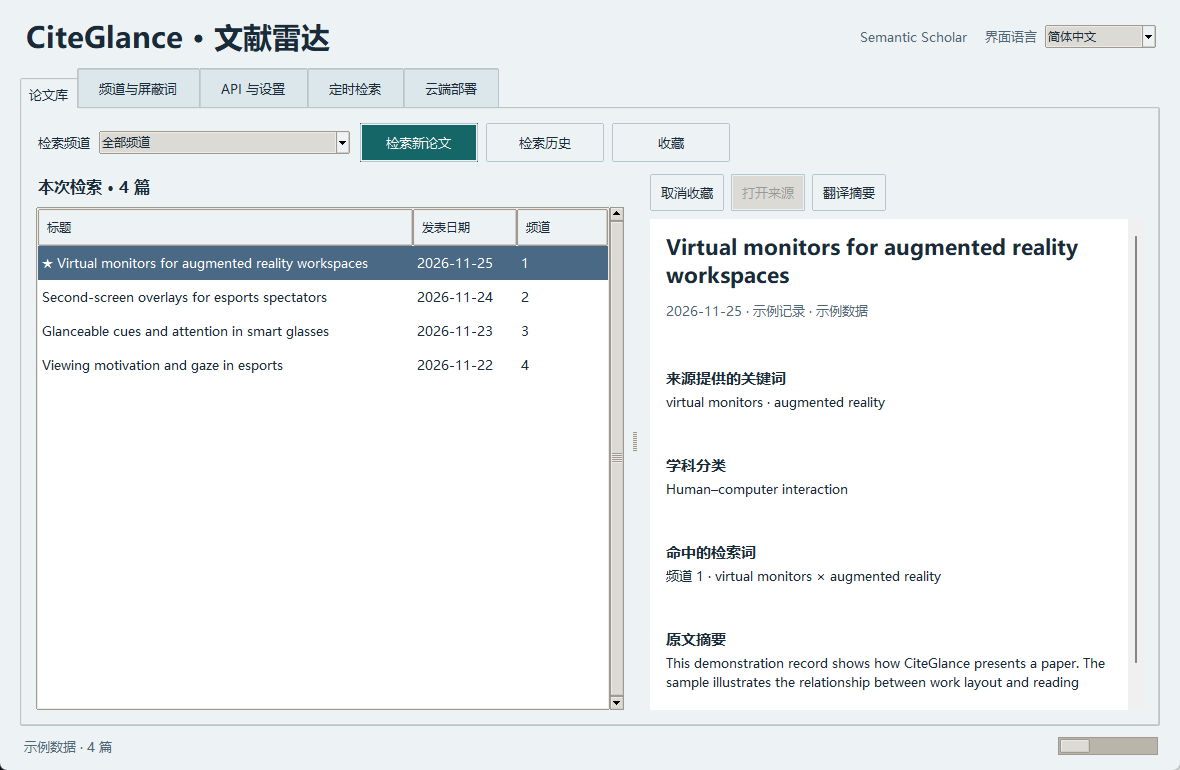
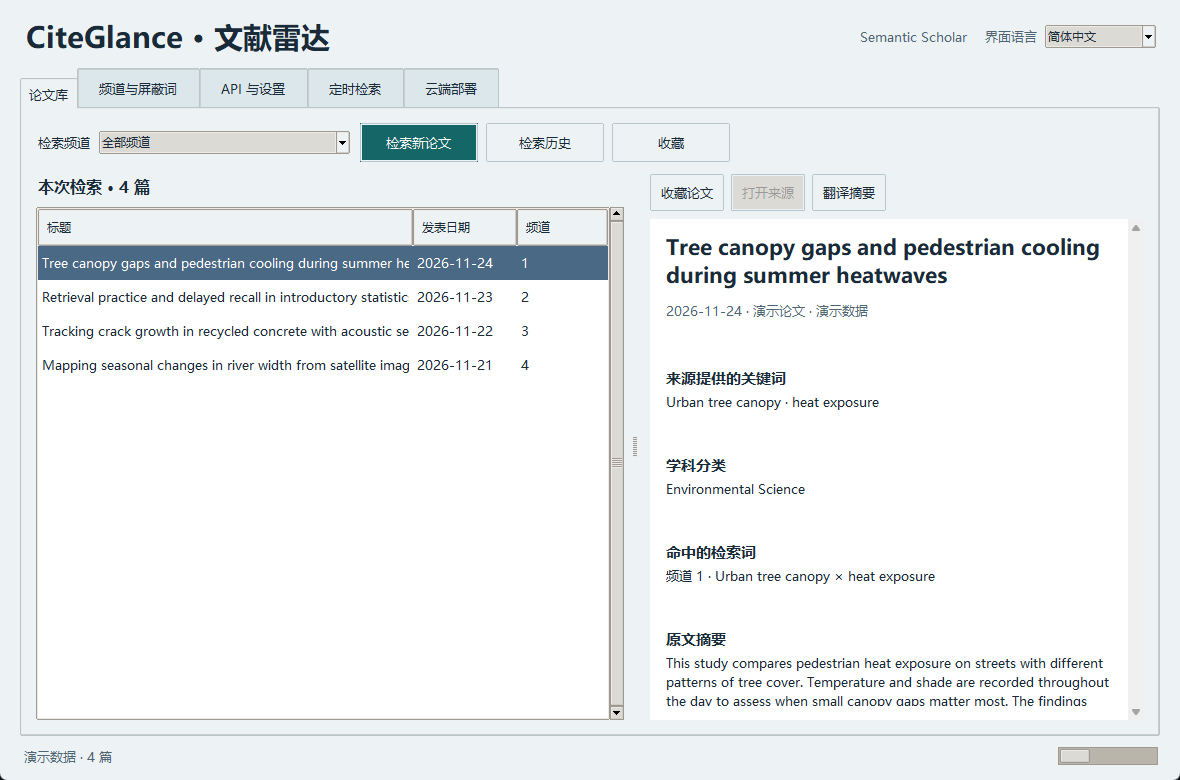
Start CiteGlance with no preset channels and keep state local

diff --git a/desktop.py b/desktop.py
@@ -21,7 +21,7 @@ from desktop_store import (
     DATA_DIRECTORY, INTERVAL_SECONDS, Library, Secrets, clean_terms, read_json, saved_settings,
     translation_key, validate_channels, write_json,
 )
-from i18n import INTERFACE_LANGUAGES, PRESET_CHANNELS, translate, translate_error
+from i18n import INTERFACE_LANGUAGES, translate, translate_error
 from providers import (
     CUSTOM_SEARCH, LANGUAGES, SEARCH_PROVIDERS, TRANSLATION_ENDPOINTS, TRANSLATORS,
     endpoint_url, make_search, translate_abstract, validate_custom,
@@ -316,6 +316,8 @@ class PaperWatch(tk.Tk):
         side = ttk.Frame(tab, padding=(0, 0, 14, 0))
         side.grid(row=0, column=0, sticky="nsew")
         self.label(side, "频道", style="Heading.TLabel").pack(anchor="w", pady=(0, 8))
+        self.channel_empty_hint = self.label(side, "还没有频道。填写频道名称和两组检索词，即可保存第一个频道。",
+                                             style="Hint.TLabel", wraplength=205, justify="left")
         self.channel_list = tk.Listbox(side, width=27, height=12, exportselection=False, font=FONT,
                                        activestyle="none", bg=WHITE, fg=INK, relief="flat",
                                        highlightthickness=0, selectbackground=BLUE)
@@ -689,9 +691,13 @@ class PaperWatch(tk.Tk):
         self.fill_channel(active)
 
     def refresh_channel_labels(self, selected=None):
-        self.channel_values = [ALL, *(self.channel_key(row) for row in self.lookup)]
-        labels = [self.channel_label(row) for row in self.lookup]
+        labels = [self.channel_key(row) for row in self.lookup]
+        self.channel_values = [ALL, *labels]
         self.channel_combo.configure(values=[self.t(ALL), *labels])
+        if labels:
+            self.channel_empty_hint.pack_forget()
+        elif not self.channel_empty_hint.winfo_manager():
+            self.channel_empty_hint.pack(before=self.channel_list, anchor="w", pady=(0, 8))
         current = self.picked_channel.get()
         if current not in self.channel_values:
             current = ALL
@@ -707,13 +713,6 @@ class PaperWatch(tk.Tk):
     @staticmethod
     def channel_key(row):
         return f'{row["id"]} · {row["name"]}'
-
-    def channel_label(self, row):
-        index = row["id"] - 1
-        name = row["name"]
-        if 0 <= index < len(PRESET_CHANNELS) and name == PRESET_CHANNELS[index]:
-            name = self.t(name)
-        return f'{row["id"]} · {name}'
 
     def pick_channel(self, _):
         index = self.channel_combo.current()
@@ -753,6 +752,7 @@ class PaperWatch(tk.Tk):
         self.config_data = replacement
         if refresh:
             self.refresh_channels(selected)
+            self.render_detail()
         self.set_status(message, **fields)
         self.wake_schedule()
 
@@ -906,7 +906,9 @@ class PaperWatch(tk.Tk):
         self.detail.configure(state="normal")
         self.detail.delete("1.0", "end")
         if not paper:
-            self.detail.insert("end", self.t("选择频道并检索，或从历史中打开一篇论文。"), "muted")
+            hint = ("选择频道并检索，或从历史中打开一篇论文。" if self.lookup
+                    else "请先在「频道与屏蔽词」添加一个频道。")
+            self.detail.insert("end", self.t(hint), "muted")
         else:
             self.detail.insert("end", paper["title"] + "\n", "title")
             authors = [author.get("name") for author in paper.get("authors") or [] if author.get("name")]
@@ -986,8 +988,6 @@ class PaperWatch(tk.Tk):
         key_endpoint = settings["custom"].get("endpoint", "") if provider == "自定义 JSON" else ""
         fallback = os.getenv("SEMANTIC_SCHOLAR_API_KEY", "") if provider == "Semantic Scholar" else ""
         try:
-            key = self.secrets.get(self.key_slot("search", provider, key_endpoint), fallback)
-            search, query_for = make_search(provider, key, settings["budget"], settings["custom"])
             channels, exclude = bot.load_channels(self.config_data)
             selected = ALL if automatic else self.picked_channel.get()
             active = channels if selected == ALL else [
@@ -995,6 +995,8 @@ class PaperWatch(tk.Tk):
             ]
             if not active:
                 raise ValueError("请先在「频道与屏蔽词」添加一个频道。")
+            key = self.secrets.get(self.key_slot("search", provider, key_endpoint), fallback)
+            search, query_for = make_search(provider, key, settings["budget"], settings["custom"])
             if not automatic:
                 self.settings["channel"] = selected
                 write_json(self.directory / "settings.json", self.settings)

diff --git a/bot.py b/bot.py
@@ -277,12 +277,8 @@ def ranked_papers(papers, channels, exclude, reported):
 
     def display_priority(row):
         paper, matches, _, _ = row
-        pavanatto = any(
-            "pavanatto" in match_text(author.get("name") or "")
-            for author in (paper.get("authors") or [])
-        )
         primary = min(match[0] for match in matches)
-        return -primary, primary == 1 and pavanatto, paper.get("publicationDate") or ""
+        return -primary, paper.get("publicationDate") or ""
 
     return sorted(selected, key=display_priority, reverse=True)
 
@@ -343,6 +339,7 @@ def main():
     argparse_modes = parser.add_mutually_exclusive_group()
     argparse_modes.add_argument("--chat-id", action="store_true", help="安全查询 Telegram 私聊 ID")
     argparse_modes.add_argument("--dry-run", action="store_true", help="只在终端预览")
+    parser.add_argument("--previous-day", action="store_true", help="仅检索日本时间的前一天，不读写检索记录")
     args = parser.parse_args()
 
     token = os.getenv("TELEGRAM_BOT_TOKEN", "").strip()
@@ -359,6 +356,9 @@ def main():
             print(chat_id)
         return 0
 
+    channels, excluded = load_channels()
+    if not channels:
+        raise ServiceError("请先在客户端添加一个频道，或在 channels.json 中配置频道。")
     api_key = os.getenv("SEMANTIC_SCHOLAR_API_KEY", "").strip()
     if not api_key:
         raise ServiceError("请配置 SEMANTIC_SCHOLAR_API_KEY")
@@ -368,10 +368,16 @@ def main():
         raise ServiceError("请配置 TELEGRAM_BOT_TOKEN 和数字格式的 Telegram 私聊 ID")
 
     today = datetime.now(JAPAN_TIME).date()
-    channels, excluded = load_channels()
-    state = load_state()
+    lookback = 14
+    if args.previous_day:
+        today -= timedelta(days=1)
+        state = {"reported": [], "last_complete": {}}
+        lookback = 1
+    else:
+        state = load_state()
+    persist_state = not dry_run and not args.previous_day
     search = PaperSearch(api_key)
-    papers, failures, complete = scan(channels, state, today, search)
+    papers, failures, complete = scan(channels, state, today, search, lookback=lookback)
     reported = set(state["reported"])
     rows = ranked_papers(papers, channels, excluded, reported)
     for index, (message, keys) in enumerate(report_chunks(today, rows, failures, search.used)):
@@ -384,11 +390,11 @@ def main():
             token, "sendMessage", chat_id=int(chat_id), text=message,
             link_preview_options={"is_disabled": True},
         )
-        if keys:
+        if keys and persist_state:
             reported.update(keys)
             state["reported"] = sorted(reported)
             save_state(state)
-    if not dry_run and complete:
+    if complete and persist_state:
         state["last_complete"].update(dict.fromkeys(complete, today.isoformat()))
         save_state(state)
     if failures:

diff --git a/i18n.py b/i18n.py
@@ -4,12 +4,6 @@ import re
 
 
 INTERFACE_LANGUAGES = {"zh": "简体中文", "en": "English", "ja": "日本語"}
-PRESET_CHANNELS = (
-    "AR 虚拟扩展屏与混合显示",
-    "电竞／体育观赛与 AR、第二屏或 HUD",
-    "AR 周边提示与人类视觉注意力",
-    "电竞观众动机、观赛行为与眼动",
-)
 
 TEXT = {
     "CiteGlance · 文献雷达": ("CiteGlance", "CiteGlance · 論文レーダー"),
@@ -31,6 +25,10 @@ TEXT = {
     "翻译摘要": ("Translate abstract", "要旨を翻訳"),
     "频道与屏蔽词": ("Channels & filters", "チャンネルと除外語"),
     "新增频道": ("New channel", "チャンネルを追加"),
+    "还没有频道。填写频道名称和两组检索词，即可保存第一个频道。": (
+        "No channels yet. Enter a name and two groups of search terms to save your first channel.",
+        "チャンネルがありません。名前と2グループの検索語を入力し、最初のチャンネルを保存してください。",
+    ),
     "删除所选频道": ("Delete selected channel", "選択したチャンネルを削除"),
     "每行一个词组。A、B 两组都需至少命中一项。": (
         "Enter one phrase per line. At least one phrase from each group must match.",
@@ -196,10 +194,6 @@ TEXT = {
     "简体中文": ("Simplified Chinese", "簡体字中国語"),
     "日语": ("Japanese", "日本語"),
     "英语": ("English", "英語"),
-    "AR 虚拟扩展屏与混合显示": ("AR virtual monitors and hybrid displays", "AR仮想モニターとハイブリッド表示"),
-    "电竞／体育观赛与 AR、第二屏或 HUD": ("Esports and sports viewing with AR, second screens, or HUDs", "eスポーツ・スポーツ観戦とAR、セカンドスクリーン、HUD"),
-    "AR 周边提示与人类视觉注意力": ("AR peripheral cues and human visual attention", "ARの周辺視野への提示と人の視覚的注意"),
-    "电竞观众动机、观赛行为与眼动": ("Esports viewing motivation, behavior, and eye tracking", "eスポーツの観戦動機・行動と視線計測"),
     "编辑频道 {number}": ("Edit channel {number}", "チャンネル{number}を編集"),
     "频道文件已在其他窗口修改。请重新打开客户端后再编辑。": (
         "The channel file changed in another window. Reopen the client before editing.",

diff --git a/docs/usage.md b/docs/usage.md
@@ -8,9 +8,17 @@
 
 在窗口右上角的「界面语言」选择简体中文、English 或日本語。界面会立即切换并记住选择。摘要翻译的目标语言在「API 与设置」单独设置。
 
+### 创建第一个频道
+
+首次打开时，频道、检索词组和屏蔽词均为空。在「频道与屏蔽词」填写名称与 A、B 两组检索词，然后点击「保存频道」。每组至少命中一项即可。
+
+![首次打开的频道界面，频道列表、检索词组和全局屏蔽词均为空。](images/channels.png)
+
+「领域限定」是可选条件，填写后须再命中其中一项。「仅此频道的屏蔽词」和「全局屏蔽词」分别生效。频道设置写入项目里的 `channels.json`。
+
 ### 客户端定时检索
 
-默认每 24 小时检索一轮。在「定时检索」中可以设置分钟、小时或天为单位的间隔，或暂停定时检索。点击「保存定时设置」后立即应用。客户端使用当前保存的检索来源，自动检索所有频道，结果可在「检索历史」查看。
+创建频道并配置检索来源后，默认每 24 小时检索一轮。在「定时检索」中可以设置分钟、小时或天为单位的间隔，或暂停定时检索。点击「保存定时设置」后立即应用。客户端使用当前保存的检索来源，自动检索所有频道，结果可在「检索历史」查看。
 
 客户端保持打开且电脑处于唤醒状态时，最小化窗口也可继续定时。上次全频道检索的启动时间会记住，重开时已到期会运行一轮。手动搜索全部频道也会重新计算下一次时间。界面会以日本时间显示上次启动以及下次预计时间。每轮沿用「API 与设置」的请求预算，提高频率会增加每天的请求量。
 
@@ -20,8 +28,7 @@
 
 1. 打开「API 与设置」，选择 **Semantic Scholar**，把已经获批的 API Key 填在「检索 API Key」，然后点「保存设置」。勾选「记住本次输入的密钥」会用 Windows DPAPI 加密保存。密钥绑定到对应服务，自定义服务还会绑定到其配置的接口地址。
 2. 回到「论文库」，选一个频道或「全部频道」，点「检索新论文」。点击论文可以查看摘要、来源提供的关键词、学科分类和实际命中的检索词。OpenAlex 提供的是索引关键词。Semantic Scholar 有摘要和学科分类字段，论文记录缺失的信息会在界面明确标注。
-3. 在「频道与屏蔽词」新增、删除或修改频道。A、B 两组各需要命中至少一个词组。「领域限定」可选，填写后还须命中其中一项。「仅此频道的屏蔽词」和「全局屏蔽词」分别生效。
-4. 收藏、检索结果和已完成的译文会保存在此 Windows 用户的 `%LOCALAPPDATA%\PaperWatch`。频道设置写入项目里的 `channels.json`。如果希望 GitHub 定时任务采用桌面调整后的频道，提交这个文件以及本版本的 `bot.py` 到部署仓库。
+3. 收藏、检索结果和已完成的译文会保存在此 Windows 用户的 `%LOCALAPPDATA%\PaperWatch`。GitHub 定时任务使用部署仓库内的 `channels.json`，启用前请先配置至少一个频道。
 
 ### 摘要翻译
 
@@ -51,9 +58,9 @@ Semantic Scholar 是检索服务。点击翻译时，客户端只把当前摘要
 
 ## GitHub 云端运行
 
-启用定时任务后，GitHub Actions 每天 **09:07（日本时间）**运行，检索 Semantic Scholar 的论文元数据，并把简报送到 Telegram 私聊。选择第 7 分钟是为了避开整点的调度高峰。GitHub 定时任务可能延后，简报也受论文收录时间影响。
+启用定时任务后，GitHub Actions 默认每天 **09:07（日本时间）**运行，检索前一个自然日发表的论文，并把简报送到 Telegram 私聊。GitHub 定时任务可能延后，简报也受论文收录时间影响。
 
-四个检索频道、A／B 组和黑名单位于 `channels.json`。每次运行通常发出 4 次检索请求，最多 20 次，包含翻页和重试。一次手动运行有独立预算。向 Semantic Scholar 发出的所有请求至少间隔 1.05 秒。程序只用 Python 标准库，要求 Python 3.10 或更新版本。
+频道、A／B 组和屏蔽词位于 `channels.json`。每次运行最多发出 20 次检索请求，包含各频道的检索、翻页和重试。一次手动运行有独立预算。向 Semantic Scholar 发出的请求至少间隔 1.05 秒。程序只用 Python 标准库，要求 Python 3.10 或更新版本。
 
 ## 1. 创建 Telegram Bot
 
@@ -67,7 +74,7 @@ python bot.py --chat-id
 
 ## 2. 部署到 GitHub
 
-1. 创建一个 **Private** GitHub 仓库。提交解压后的**目录内容**到默认分支，保留隐藏的 `.github/workflows/paper-watch.yml`。确认默认分支允许工作流写入 `state.json`，并且组织策略允许该工作流使用 `contents: write`。
+1. Fork 此项目，或把源码上传到自己的 GitHub 仓库。保留 `.github/workflows/paper-watch.yml`，并在默认分支的 `channels.json` 中配置至少一个频道。希望频道配置仅自己可见时，使用私有仓库。
 2. 在仓库的 **Settings → Secrets and variables → Actions → New repository secret** 添加以下三个值。
 
    | Secret | 值 |
@@ -79,15 +86,15 @@ python bot.py --chat-id
 3. 到 **Actions → CiteGlance 每日检索 → Run workflow**。首次保持「仅检索并预览，不发送 Telegram」勾选，在运行日志看检索结果。这一步需要 Semantic Scholar API Key。
 4. 确认结果后，可以手动取消预览勾选运行一次，验证 Telegram 能收到简报。要启用日程，在 **Settings → Secrets and variables → Actions → Variables** 添加仓库变量 `PAPER_WATCH_CLOUD_ENABLED`，值设为 `true`。启用后每天由 GitHub 运行。重复手动运行会产生额外 API 请求。
 
-云端密钥通过 GitHub Secrets 配置。桌面端可以使用 Windows 加密保存。云端工作流会把去重记录提交到仓库。个人使用时可在私有仓库中部署。
+云端密钥通过 GitHub Secrets 配置。桌面端可以使用 Windows 加密保存。命令行推送的历史保存在运行目录的 `state.json`，桌面端和 Docker 服务使用各自的 SQLite 数据库。GitHub Actions 只有仓库读取权限，每轮独立运行。同一天重复运行可能收到相同的论文，较晚收录的论文也可能超出检索范围。
 
 ## 检索和简报
 
-- 四个频道分别执行「A 组任一词组 AND B 组任一词组」。程序再检查标题、摘要和黑名单。第三频道使用限定词组，如 visual attention 和 cognitive load。
-- 首次回看最近 14 个自然日。以后继续滚动回看，若任务长时间漏跑，则按各频道上次成功日期补查。检索用 Semantic Scholar 的出版日期字段，因此缺少精确日期或延迟收录超过窗口的论文可能遗漏。
+- 每个频道分别执行「A 组任一词组 AND B 组任一词组」。程序再检查标题、摘要和屏蔽词。
+- 常驻服务和命令行常规检索首次回看最近 14 个自然日，以后继续滚动回看，若任务长时间漏跑，则按各频道上次成功日期补查。Semantic Scholar 使用论文的出版日期字段，缺少精确日期或延迟收录超过窗口的论文可能遗漏。
 - 同一篇论文通过 DOI、Semantic Scholar ID、arXiv ID 或规范化标题去重。跨频道结果合成一条。标题相同的预印本和正式版在同一轮出现时优先采用正式版。
-- 简报包含论文标题、出版日期、渠道、匹配词组和 DOI 或 Semantic Scholar 链接。第一频道优先展示符合条件的 Pavanatto 论文，通过 AR 虚拟屏与混合显示词组追踪同类研究。
-- Telegram 确认收到消息后才保存其论文记录。若某个频道的检索未完成，简报会标明，GitHub 运行状态也会显示失败。若 Telegram 已接收消息但运行在保存状态前中断，下一次可能重复推送这一批。
+- 简报包含论文标题、出版日期、渠道、匹配词组和 DOI 或 Semantic Scholar 链接。结果按频道分组，再按发表日期排序。
+- 命令行常规推送和 Docker 服务在 Telegram 确认收到消息后保存论文记录。若接收消息后、保存状态前运行中断，下一次可能重复推送这一批。若某个频道的检索未完成，简报会标明，GitHub 运行状态也会显示失败。
 - 可在 `.github/workflows/paper-watch.yml` 修改定时。默认 20 次是**每轮**预算，改为每小时运行前请重新核算预计的每日请求量。
 
 参考：[Semantic Scholar API](https://api.semanticscholar.org/api-docs) · [Telegram Bot API](https://core.telegram.org/bots/api) · [GitHub Actions 定时工作流](https://docs.github.com/en/actions/reference/workflows-and-actions/workflow-syntax#onschedule)

diff --git a/docs/server.md b/docs/server.md
@@ -17,7 +17,7 @@ Docker 版本在 Linux 云服务器上常驻运行。它使用 Semantic Scholar 
 1. 在云服务商控制台准备一台带 Python 3、Docker Engine 和 Docker Compose 的 Linux 服务器，并添加你的 SSH 公钥。SSH 用户需要有 Docker 权限。
 2. 打开客户端「云端部署」。填入 IP 或域名、SSH 用户及端口。若有指定的私钥文件，点「选择私钥」；使用默认密钥或已加载到 SSH Agent 的密钥时可留空。首次连接可点「首次 SSH 连接」，和服务器控制台核对指纹，确认后再点「检测服务器」。
 3. 通过 Telegram 的 `@BotFather` 创建 Bot，向它发 `/start`。在客户端填写 Token 后点「获取私聊 ID」，或填入已有的 ID。Semantic Scholar Key 一栏留空时可以复用客户端保存的检索密钥。
-4. 点「部署或更新」。客户端通过 SSH 传输服务文件和当前频道，设置频率和用量上限，启动 Docker。完成后可用「查看云端状态」「查看云端日志」检查，再到 Telegram 发 `/status` 验证。
+4. 在客户端保存至少一个频道，再点「部署或更新」。客户端通过 SSH 传输服务文件和当前频道，设置频率和用量上限，启动 Docker。完成后可用「查看云端状态」「查看云端日志」检查，再到 Telegram 发 `/status` 验证。
 
 之后要同步频道、修改频率或更新程序，再点「部署或更新」。部署沿用 Docker 项目名 `paper-watch` 及原有数据卷。服务可在 Windows 客户端关闭后独立运行。
 
@@ -41,7 +41,8 @@ docker info --format '{{.ServerVersion}}'
 
 - 使用一台持续在线、可运行 Docker Engine 和 Compose 插件的 Linux 服务器。Ubuntu 可按 [Docker 官方安装指南](https://docs.docker.com/engine/install/ubuntu/)安装。
 - 在 Telegram 中通过 `@BotFather` 创建 Bot，打开私聊并发送 `/start`。可以在现有 Windows 客户端目录运行 `python -X utf8 bot.py --chat-id`，从隐藏输入框输入 Bot Token，获取自己的数字私聊 ID。
-- 将源码包解压到服务器，或在服务器配置好私有仓库访问后克隆此项目。以下命令均在服务器的项目根目录运行。
+- 将源码包解压到服务器，或从 GitHub 克隆项目。以下命令均在服务器的项目根目录运行。
+- 在 `channels.json` 中配置至少一个频道。也可以把在 Windows 客户端编辑好的频道配置复制到服务器。
 - 同一个 Bot Token 保留一个长轮询进程。若用同一枚 Semantic Scholar Key 运行其他定时器，服务器无法统计那些调用。切换部署方式时，可以先关闭原有 GitHub Actions 日程或桌面定时检索。
 
 ### 2. 配置服务器
@@ -53,7 +54,7 @@ cp .env.example .env
 nano .env
 ~~~~
 
-填写 `TELEGRAM_CHAT_ID`。`PAPER_WATCH_INTERVAL_MINUTES` 默认是 `1440`，即每 24 小时一轮。要每小时检索，可改为 `60`。`PAPER_WATCH_DAILY_BUDGET` 默认是滚动 24 小时 `20` 次，两种触发方式共用这个额度，分页和重试也计入。四个频道每轮基础需 4 次请求，按每小时检索的基础用量是 96 次／24 小时。额度不足时，服务会等待额度恢复。
+填写 `TELEGRAM_CHAT_ID`。`PAPER_WATCH_INTERVAL_MINUTES` 默认是 `1440`，即每 24 小时一轮。要每小时检索，可改为 `60`。`PAPER_WATCH_DAILY_BUDGET` 默认是滚动 24 小时 `20` 次，两种触发方式共用这个额度，分页和重试也计入。每日基础用量约等于频道数乘以每日检索轮数。额度不足时，服务会等待额度恢复。
 
 以下 Bash 命令会提示你分别粘贴两项密钥，输入时隐藏。密钥文件所在目录仅当前服务器账户可访问，文件设为容器内的非 root 用户可读。
 

diff --git a/README.md b/README.md
@@ -1,12 +1,12 @@
 # CiteGlance · 文献雷达
 
-CiteGlance 是一个 Windows 学术论文追踪客户端。按研究主题设置检索频道，定时查找近期论文，在同一个窗口阅读摘要、核对关键词、收藏论文和保存译文。
+CiteGlance 是一个 Windows 学术论文追踪客户端。你可以为任何研究主题建立检索频道，定时查找近期论文，在同一个窗口阅读摘要、核对关键词、收藏论文和保存译文。
 
 The Windows desktop app tracks new research papers across configurable search channels. It supports scheduled searches, local history and favorites, and on-demand abstract translation.
 
 ![CiteGlance 的论文库。左侧显示按频道检索到的论文，右侧显示来源、命中的检索词和摘要。](docs/images/library.png)
 
-*界面预览使用示例数据。*
+*截图使用不同学科的演示题目。首次打开时，频道和屏蔽词均为空。*
 
 ## 功能
 
@@ -23,8 +23,9 @@ The Windows desktop app tracks new research papers across configurable search ch
 
 1. 下载并解压源码，确认已安装 **Python 3.10+** 和随标准安装提供的 **Tkinter**。
 2. 双击 `launch_client.cmd`。也可以在项目目录运行 `python -X utf8 desktop.py`。
-3. 在「API 与设置」选择论文检索来源。使用 Semantic Scholar 时，填入该服务发放的 API Key 并保存。
-4. 回到「论文库」，选择频道并点击「检索新论文」。要调整自动检索间隔，打开「定时检索」。
+3. 在「频道与屏蔽词」创建第一个频道，填写频道名称与 A、B 两组检索词。
+4. 在「API 与设置」选择检索来源。使用 Semantic Scholar 时，填入该服务发放的 API Key 并保存。
+5. 回到「论文库」，选择频道并点击「检索新论文」。自动检索间隔可在「定时检索」调整。
 
 ## 检索来源
 
@@ -33,14 +34,12 @@ The Windows desktop app tracks new research papers across configurable search ch
 - **Crossref** 支持无需密钥的公开检索。摘要由元数据提供方提交，覆盖因论文而异。
 - **自定义 JSON** 支持常见 REST API 的 GET／POST、密钥认证、字段映射及游标分页。接口可用的检索语法及元数据范围取决于服务。
 
-预置频道面向 AR 虚拟扩展屏、电竞与体育观赛、AR 周边提示与视觉注意力，以及电竞观众动机与眼动。可在客户端替换成自己的研究主题。
-
 ## 本地运行与云端部署
 
 | 方式 | 运行条件 | 结果 |
 | --- | --- | --- |
 | Windows 客户端 | 客户端打开且设备处于唤醒状态，支持最小化 | 本地历史、收藏与译文 |
 | Docker 常驻服务 | Linux 服务器保持在线，由 Docker 管理进程 | Telegram 简报，以及 `/status` 和 `/search` 指令 |
-| GitHub Actions | 启用后由 GitHub 执行，默认每天日本时间 09:07 | Telegram 简报 |
+| GitHub Actions | 默认每天日本时间 09:07，检索前一自然日 | Telegram 简报 |
 
 [使用指南、API 配置与 GitHub Actions 部署](docs/usage.md) · [Linux 服务器常驻部署](docs/server.md)
